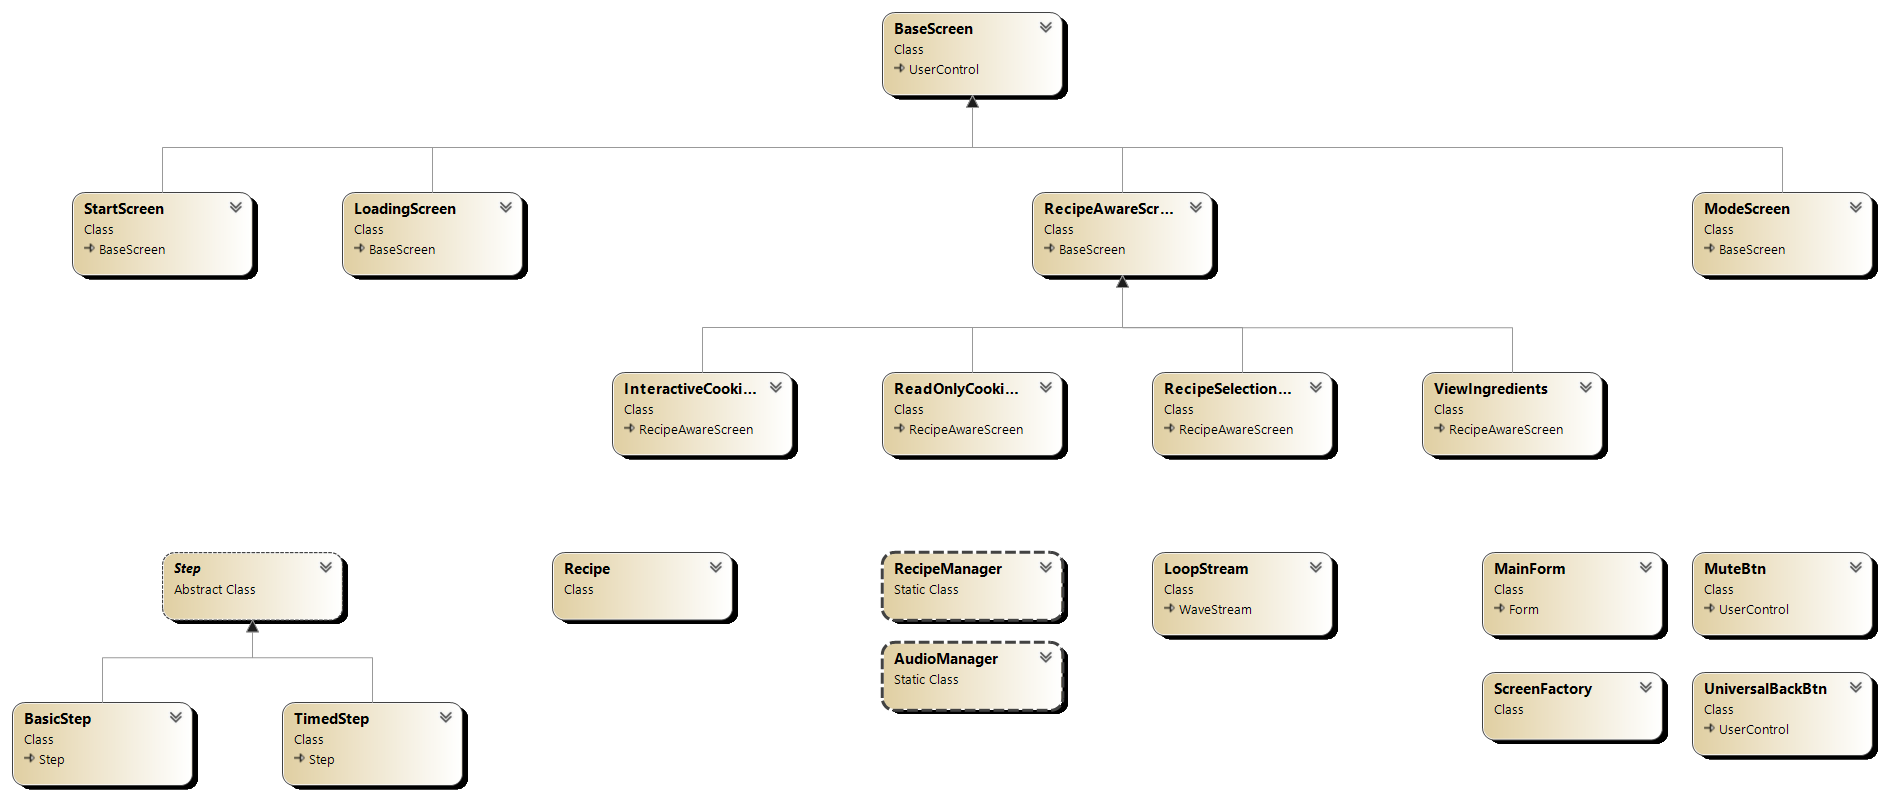
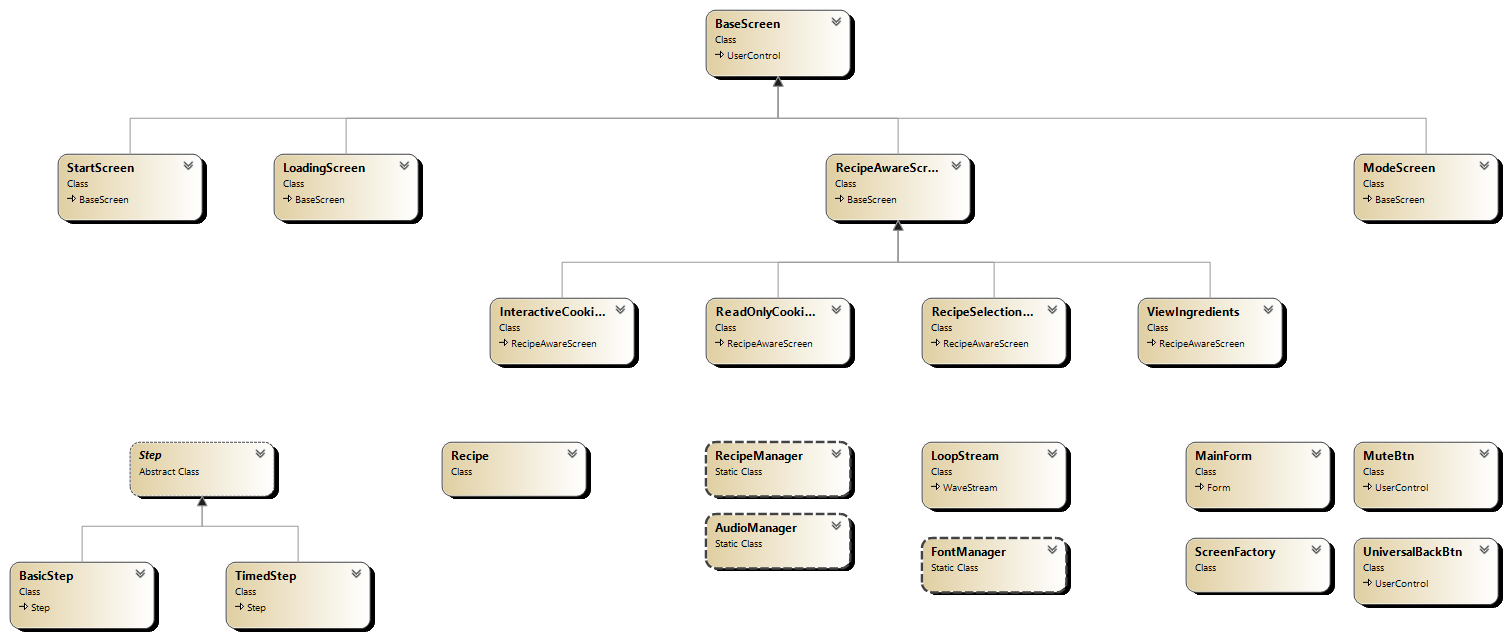
Patch v1.5

diff --git a/Palayok/UI/FontManager.cs b/Palayok/UI/FontManager.cs
@@ -1,0 +1,49 @@
+using System.Runtime.InteropServices;
+
+namespace Palayok.UI
+{
+    public static class FontManager
+    {
+        [DllImport("gdi32.dll")]
+        private static extern int AddFontMemResourceEx(IntPtr pbFont, uint cbFont, IntPtr pdv, out uint pcFonts);
+
+        private static List<IntPtr> loadedFonts = new();
+
+        public static void LoadEmbeddedFonts()
+        {
+            try
+            {
+                string fontsDirectory = Path.Combine(AppDomain.CurrentDomain.BaseDirectory, "Resources", "Fonts");
+                if (!Directory.Exists(fontsDirectory))
+                {
+                    return;
+                }
+
+                string[] fontFiles = Directory.GetFiles(fontsDirectory, "*.ttf")
+                    .Concat(Directory.GetFiles(fontsDirectory, "*.otf"))
+                    .ToArray();
+
+                foreach (string fontPath in fontFiles)
+                {
+                    try
+                    {
+                        byte[] fontData = File.ReadAllBytes(fontPath);
+                        IntPtr fontPtr = Marshal.AllocCoTaskMem(fontData.Length);
+                        Marshal.Copy(fontData, 0, fontPtr, fontData.Length);
+
+                        AddFontMemResourceEx(fontPtr, (uint)fontData.Length, IntPtr.Zero, out uint cFonts);
+                        loadedFonts.Add(fontPtr);
+                    }
+                    catch (Exception ex)
+                    {
+                        System.Diagnostics.Debug.WriteLine($"Failed to load font {fontPath}: {ex.Message}");
+                    }
+                }
+            }
+            catch (Exception ex)
+            {
+                System.Diagnostics.Debug.WriteLine($"FontManager error: {ex.Message}");
+            }
+        }
+    }
+}

diff --git a/Palayok/Program.cs b/Palayok/Program.cs
@@ -11,6 +11,10 @@ namespace Palayok
             // To customize application configuration such as set high DPI settings or default font,
             // see https://aka.ms/applicationconfiguration.
             ApplicationConfiguration.Initialize();
+
+            // Load embedded fonts
+            UI.FontManager.LoadEmbeddedFonts();
+
             Application.Run(new MainForm());
         }
     }

diff --git a/PatchNotes.md b/PatchNotes.md
@@ -1,4 +1,10 @@
-# PATCH NOTE v1.4
+# PATCH NOTE v1.5
 
-### Added UML.png
+### Added FontManager for Embedded Font Support
+- Implemented `FontManager.cs` to load embedded fonts at runtime
+- Fonts are now copied to output directory via `.csproj` configuration
+- Pixelify Sans font is now available on all devices without requiring system-wide installation
+- Updated `Program.cs` to initialize font loading on application startup
+
+### Added UML.png (v1.4)
 